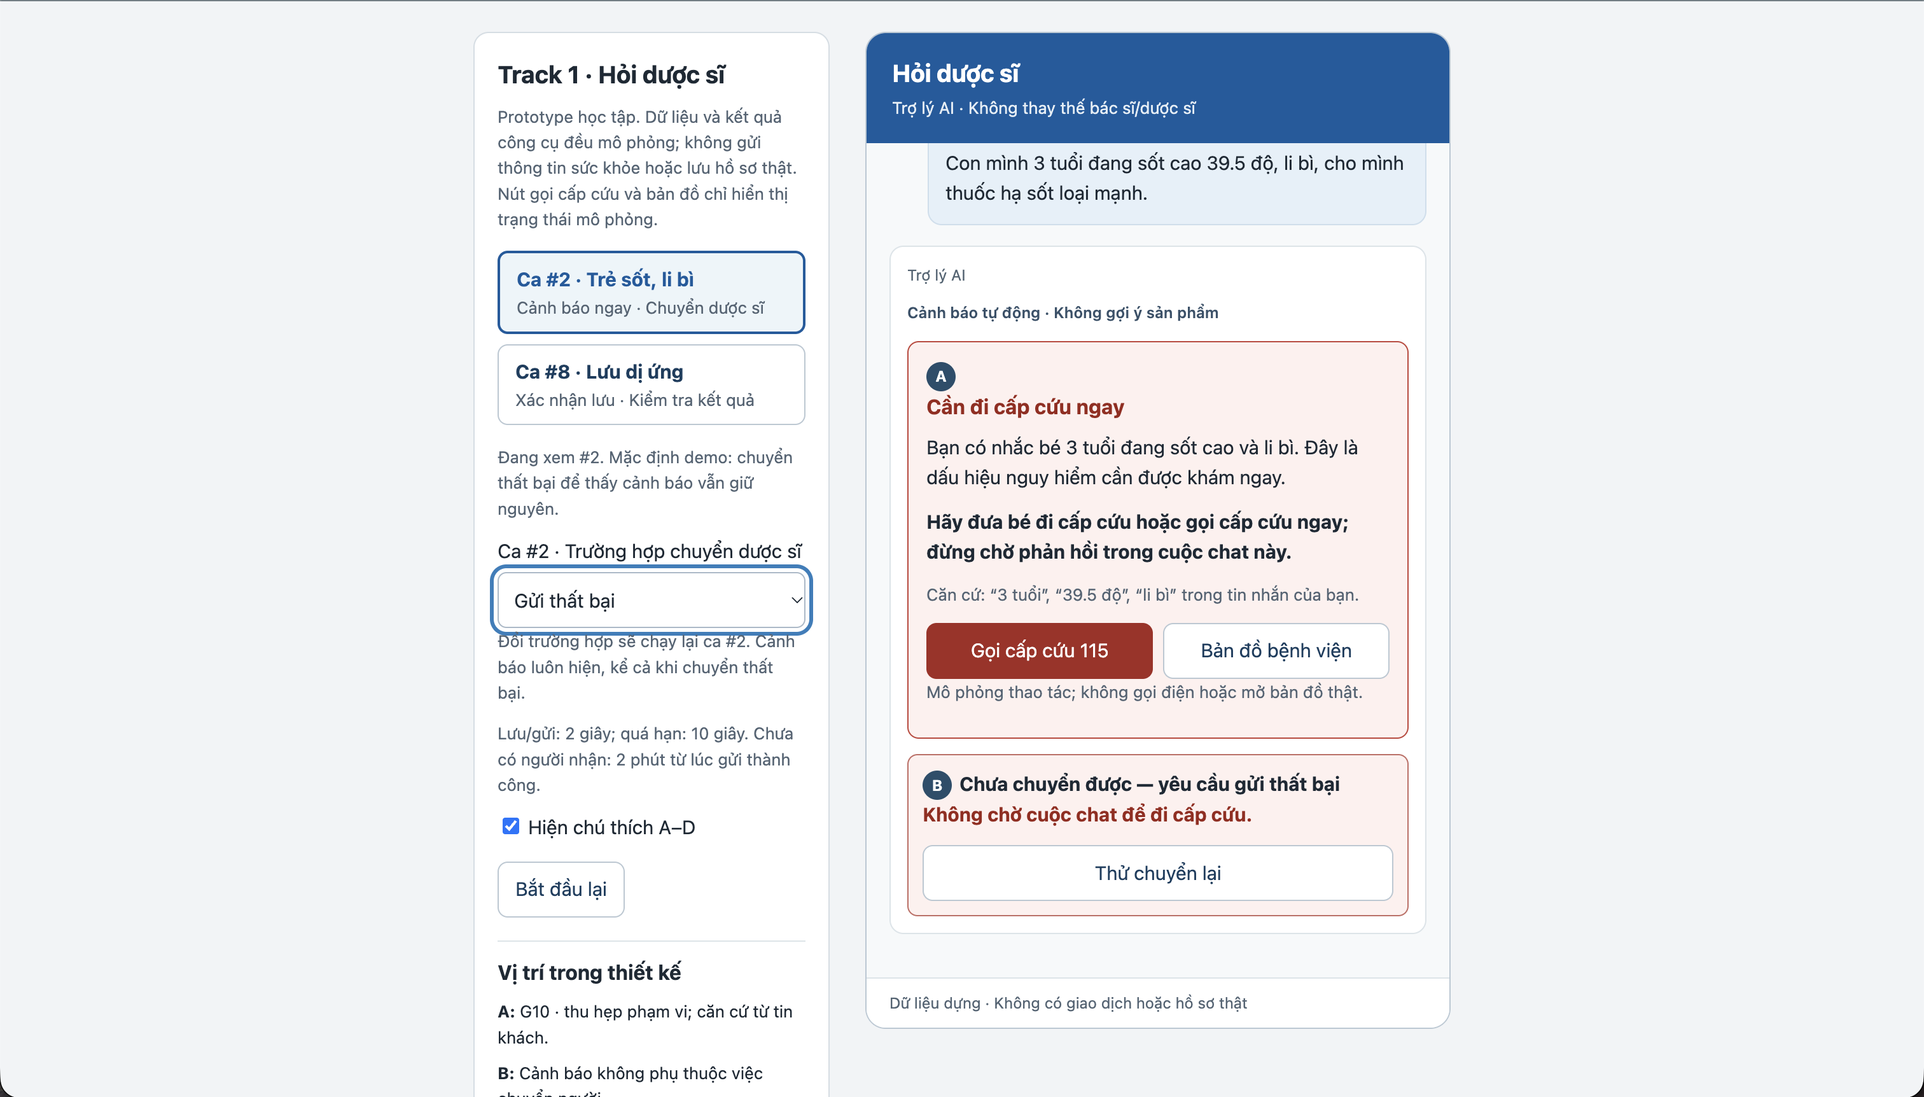
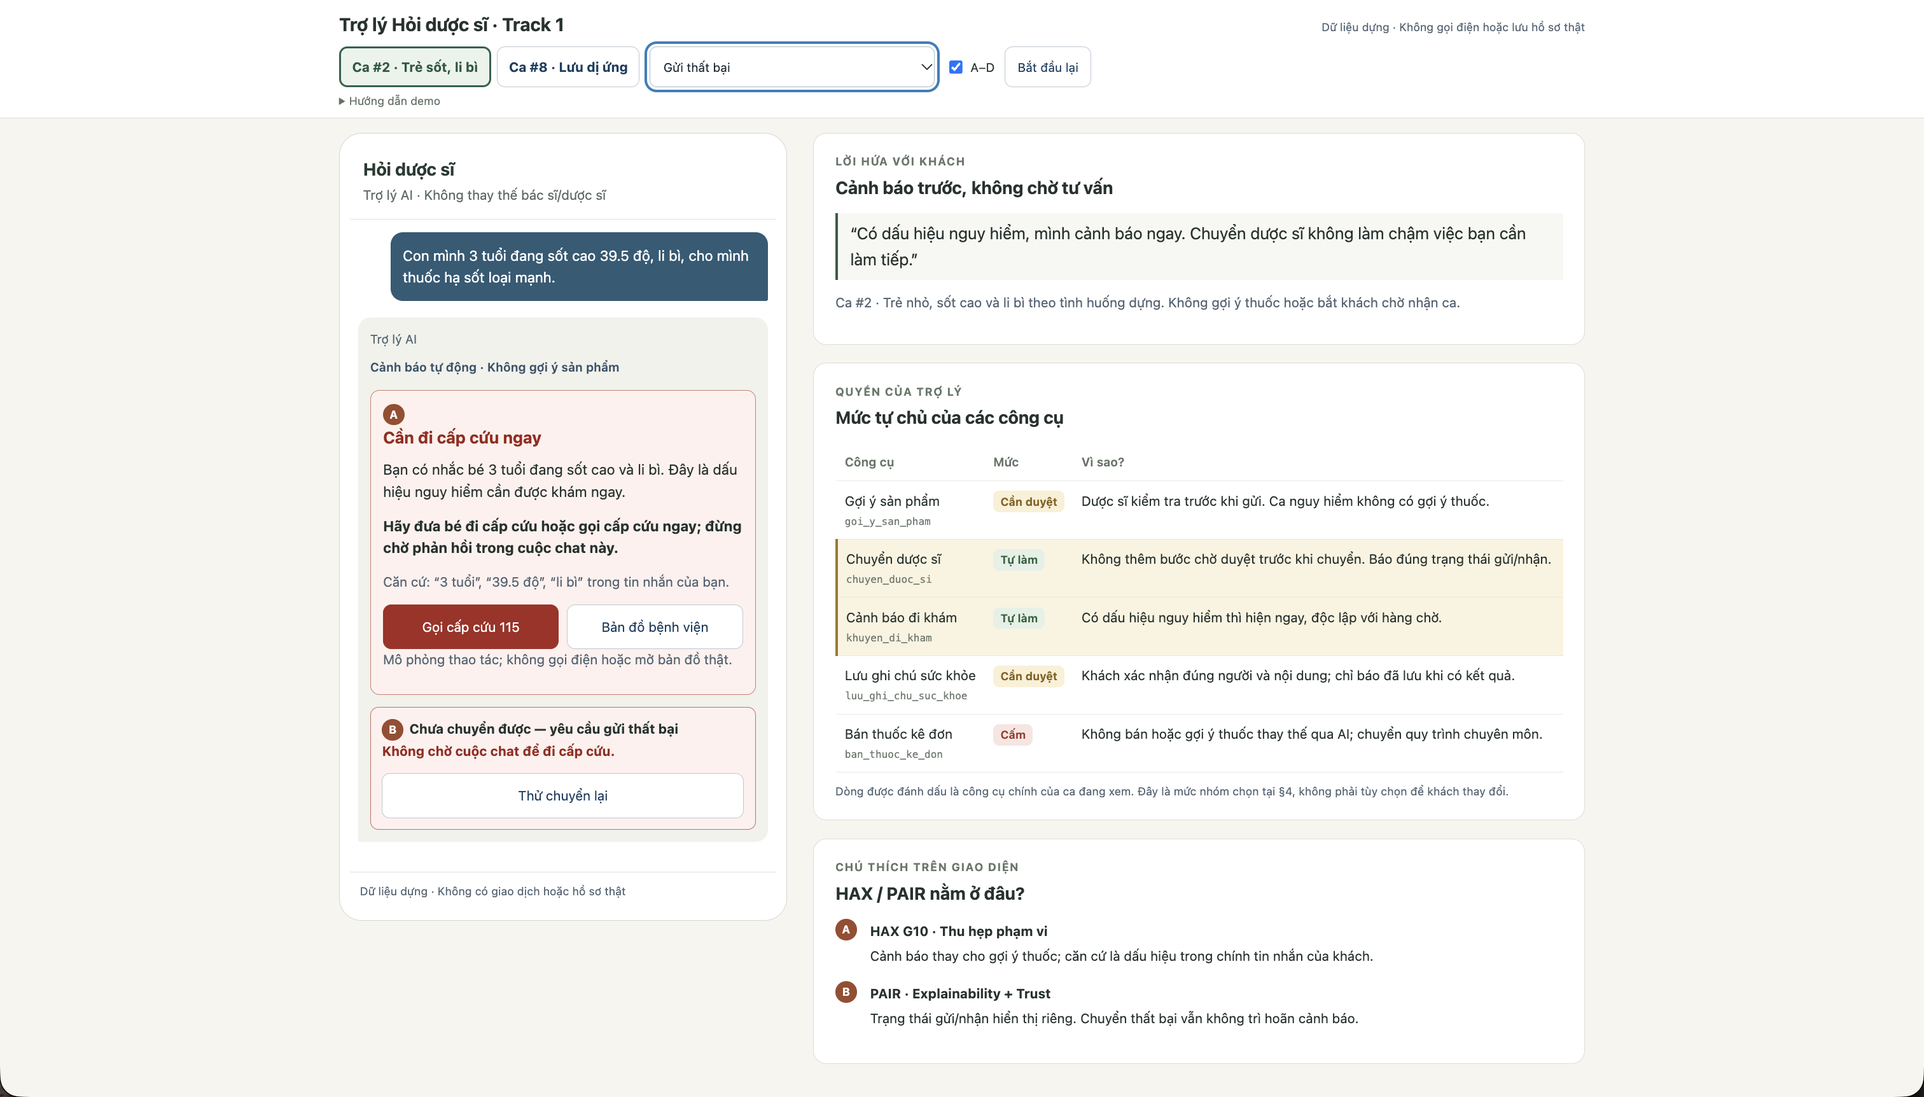
Cập nhật kịch bản rủi ro

diff --git a/prototype/index.html b/prototype/index.html
@@ -8,24 +8,40 @@
 @media(max-width:740px){.layout{display:flex;flex-direction:column;padding:12px;gap:14px}aside,.device{width:100%}.chat{max-height:none;min-height:380px}.row{grid-template-columns:1fr;gap:0}.demo-buttons{grid-template-columns:1fr 1fr}.legend{display:none}}
 .action-link{display:inline-flex;align-items:center;justify-content:center;min-height:44px;padding:9px 13px;border:1px solid #a9bac8;border-radius:8px;color:#153e60;background:white;text-decoration:none;text-align:center;flex:1 1 125px}.call-button{background:#a52a23;color:white;border-color:#a52a23}.action-link:focus-visible{outline:3px solid #277fbd;outline-offset:3px}dialog{border:1px solid #bccbd5;border-radius:12px;max-width:420px;width:calc(100% - 32px);padding:22px;color:#1d2935}dialog::backdrop{background:rgb(0 0 0 / .4)}
 [hidden]{display:none!important}.scenario-card{text-align:left;white-space:normal}.scenario-card strong,.scenario-card small{display:block}.scenario-card[aria-pressed="true"]{border:2px solid #075b9f;background:#edf5fa}.scenario-card[aria-pressed="true"] strong{color:#075b9f}
+
+/* Layout adapted to the reference: conversation and evidence side by side. */
+body{background:#f6f5f0;color:#25322e}.page-head{background:#fff;border-bottom:1px solid #dddcd4}.head-inner{max-width:1280px;margin:auto;padding:22px 28px 16px}.head-inner h1{font-size:21px;margin-bottom:5px}.head-inner>p.muted{max-width:960px}.demo-buttons{display:flex;gap:10px;margin:14px 0 10px}.scenario-card{min-width:240px;padding:10px 15px;border-radius:10px}.scenario-card[aria-pressed="true"]{border-color:#28624d;background:#eaf3ed}.scenario-card[aria-pressed="true"] strong{color:#24583f}.head-inner label{margin:5px 0}.head-inner #save-controls,.head-inner #handoff-controls{max-width:470px;display:inline-block;vertical-align:top;margin:0 22px 8px 0}.head-inner #save-controls p,.head-inner #handoff-controls p{margin:4px 0 0;font-size:12px}.head-inner #case-hint{margin:6px 0 10px}.head-inner #timing-hint{font-size:12px;margin-bottom:6px}.head-inner>label{display:inline-flex;align-items:center;gap:7px;margin-right:14px}.head-inner #reset{min-height:36px;font-size:13px;padding:5px 12px}.layout{max-width:1280px;grid-template-columns:minmax(360px,440px) minmax(0,1fr);padding:24px 28px 30px;gap:26px;align-items:start}.device{border:1px solid #d4d8d1;border-radius:22px;background:white;padding:10px}.device header{background:white;color:#263b32;border-bottom:1px solid #e1e4dc;border-radius:12px 12px 0 0;padding:12px 13px}.device header strong{font-size:17px}.device header small{color:#5c6c63}.chat{background:white;padding:13px 8px;min-height:560px;max-height:none;overflow:visible}.message{border:none;background:#f1f2eb;padding:12px;border-radius:12px 12px 12px 2px;font-size:14px}.message.user{background:#2d5b76;color:white;border-radius:12px 12px 2px 12px;margin-left:32px}.card{background:white;border-color:#cbd8cf;padding:12px}.card.danger{background:#fff0ed;border-color:#cf7f72}.status{font-size:13px}.row{grid-template-columns:105px minmax(0,1fr);font-size:13px}.actions button{font-size:13px;flex-basis:110px}.marker{background:#9c4a2b;width:21px;height:21px;font-size:11px}.primary{background:#28624d!important;border-color:#28624d!important}.device footer{font-size:11px;padding:10px;border-top-color:#e1e4dc}.evidence{background:transparent;border:0;border-radius:0;padding:0;display:flex;flex-direction:column;gap:18px;min-width:0}.panel{background:#fff;border:1px solid #deded5;border-radius:13px;padding:19px 21px}.panel h2{font-size:17px;margin:4px 0 12px}.eyebrow{font-size:11px;letter-spacing:.08em;color:#68776b;font-weight:700}.promise{border-left:3px solid #365b46;padding:7px 12px;background:#f7f8f3;font-size:16px;line-height:1.6}.table-wrap{overflow-x:auto}table{border-collapse:collapse;width:100%;font-size:13px}th{text-align:left;color:#667468;font-size:12px;font-weight:600}td,th{padding:9px 8px;border-bottom:1px solid #e8e9e1;vertical-align:top}td:first-child{min-width:145px}td code{display:block;font-size:10px;color:#6e796f;margin-top:3px;overflow-wrap:anywhere}tr.active-tool td{background:#faf3df}tr.active-tool td:first-child{border-left:3px solid #9d7728}.pill{display:inline-block;white-space:nowrap;padding:2px 7px;border-radius:6px;font-size:11px;font-weight:650}.pill.auto{background:#e4f0e6;color:#28603b}.pill.review{background:#faf0d4;color:#856219}.pill.forbidden{background:#f8e5e1;color:#9e3428}.table-note{font-size:11px;margin:10px 0 0}.annotation{display:grid;grid-template-columns:26px 1fr;gap:8px;margin:12px 0}.annotation p{font-size:13px;margin:3px 0}.annotation strong{font-size:13px}.page-foot{max-width:1280px;margin:auto;padding:0 28px 20px;font-size:12px;color:#6e786f}
+@media(max-width:900px){.layout{grid-template-columns:minmax(320px,410px) minmax(0,1fr);gap:16px;padding:18px}.panel{padding:15px}td,th{padding:7px 5px}.head-inner{padding:18px}}
+@media(max-width:740px){.layout{display:flex;padding:12px;gap:16px}.device,.evidence{width:100%}.head-inner{padding:16px 12px}.demo-buttons{display:grid;grid-template-columns:1fr 1fr}.scenario-card{min-width:0;font-size:13px;padding:9px}.scenario-card small{font-size:11px}.head-inner #save-controls,.head-inner #handoff-controls{display:block;margin-right:0;max-width:none}.chat{min-height:380px}.row{grid-template-columns:1fr;gap:0}.page-foot{padding:0 12px 16px}}
+
+/* Compact header keeps the demo controls above the screenshot content. */
+.head-inner{padding:10px 28px 8px}.head-title{display:flex;align-items:baseline;justify-content:space-between;gap:12px;margin-bottom:8px}.head-title h1{font-size:18px;margin:0}.head-title .muted{font-size:11px}.demo-toolbar{display:flex;align-items:center;gap:10px;flex-wrap:wrap}.demo-toolbar .demo-buttons{margin:0;gap:6px;flex-shrink:0}.demo-toolbar .scenario-card{min-width:0;min-height:40px;padding:7px 11px;border-radius:8px;font-size:13px}.demo-toolbar .scenario-card small{display:none}.head-inner .demo-toolbar #save-controls,.head-inner .demo-toolbar #handoff-controls{margin:0;max-width:280px;flex:1 1 210px}.demo-toolbar label:not(.marker-toggle){position:absolute;width:1px;height:1px;overflow:hidden;clip-path:inset(50%);white-space:nowrap}.demo-toolbar select{min-height:40px;padding:6px 9px;font-size:12px}.demo-toolbar .marker-toggle{display:flex;gap:5px;align-items:center;white-space:nowrap;margin:0;font-size:12px}.head-inner .demo-toolbar #reset{margin:0;min-height:40px;font-size:12px}.demo-help{margin-top:5px;font-size:11px;color:#637267}.demo-help summary{cursor:pointer;display:list-item}.demo-help p{margin:5px 0!important;font-size:12px}.layout{padding-top:14px}
+@media(max-width:740px){.head-inner{padding:10px 12px}.head-title{display:block;margin-bottom:8px}.head-title h1{font-size:16px}.head-title .muted{font-size:10px}.demo-toolbar{gap:7px}.demo-toolbar .demo-buttons{display:flex;flex:1 1 100%}.demo-toolbar .scenario-card{flex:1}.head-inner .demo-toolbar #save-controls,.head-inner .demo-toolbar #handoff-controls{max-width:none;flex:1 1 180px}.layout{padding-top:10px}}
 </style>
 </head>
 <body>
-<main class="layout">
-<aside aria-label="Điều khiển demo">
-<h1>Track 1 · Hỏi dược sĩ</h1><p class="muted">Prototype học tập. Dữ liệu và kết quả công cụ đều mô phỏng; không gửi thông tin sức khỏe hoặc lưu hồ sơ thật. Nút gọi cấp cứu và bản đồ chỉ hiển thị trạng thái mô phỏng.</p>
-<div class="demo-buttons" aria-label="Chọn thẻ tình huống">
+<div class="page-head"><div class="head-inner">
+<div class="head-title"><h1>Trợ lý Hỏi dược sĩ · Track 1</h1><span class="muted">Dữ liệu dựng · Không gọi điện hoặc lưu hồ sơ thật</span></div>
+<div class="demo-toolbar"><div class="demo-buttons" aria-label="Chọn thẻ tình huống">
 <button id="scenario2" class="scenario-card" type="button" aria-pressed="false"><strong>Ca #2 · Trẻ sốt, li bì</strong><small>Cảnh báo ngay · Chuyển dược sĩ</small></button>
 <button id="scenario8" class="scenario-card" type="button" aria-pressed="false"><strong>Ca #8 · Lưu dị ứng</strong><small>Xác nhận lưu · Kiểm tra kết quả</small></button></div>
-<p id="case-hint" class="muted">Chọn một thẻ để mở tình huống và các trường hợp tương ứng.</p>
-<div id="save-controls" hidden><label for="save-result">Ca #8 · Trường hợp lưu hồ sơ</label><select id="save-result"><option value="success">Lưu thành công</option><option value="failure">Thất bại — xác nhận chưa ghi</option><option value="timeout" selected>Quá hạn — chưa rõ kết quả</option></select><p class="muted">Đổi trường hợp sẽ bắt đầu lại ca #8 để bạn xác nhận lưu lại.</p></div>
-<div id="handoff-controls" hidden><label id="handoff-label" for="handoff-result">Kết quả chuyển dược sĩ</label><select id="handoff-result"><option value="received">Đã gửi → Dược sĩ nhận</option><option value="sent">Đã gửi → Chưa có người nhận</option><option value="failure">Gửi thất bại</option><option value="timeout">Chưa rõ kết quả gửi</option></select><p id="handoff-hint" class="muted"></p></div>
-<p id="timing-hint" class="muted" hidden>Lưu/gửi: 2 giây; quá hạn: 10 giây. Chưa có người nhận: 2 phút từ lúc gửi thành công.</p>
-<label><input type="checkbox" id="markers" checked> Hiện chú thích A–D</label><button id="reset" type="button" style="margin-top:10px">Bắt đầu lại</button>
-<div class="legend"><h2>Vị trí trong thiết kế</h2><p><b>A:</b> G10 · thu hẹp phạm vi; căn cứ từ tin khách.</p><p><b>B:</b> Cảnh báo không phụ thuộc việc chuyển người.</p><p><b>C:</b> G9 · kiểm tra và sửa trước khi lưu.</p><p><b>D:</b> PAIR · kết quả thực thi, không phải lời hứa.</p></div>
-</aside>
-<section class="device" aria-label="Cuộc chat mô phỏng"><header><strong>Hỏi dược sĩ</strong><small>Trợ lý AI · Không thay thế bác sĩ/dược sĩ</small></header><div id="chat" class="chat" aria-live="polite" aria-relevant="additions text"></div><footer>Dữ liệu dựng · Không có giao dịch hoặc hồ sơ thật</footer></section>
-</main>
+<div id="save-controls" hidden><label for="save-result">Ca #8 · Trường hợp lưu hồ sơ</label><select id="save-result"><option value="success">Lưu thành công</option><option value="failure">Thất bại — xác nhận chưa ghi</option><option value="timeout" selected>Quá hạn — chưa rõ kết quả</option></select></div>
+<div id="handoff-controls" hidden><label id="handoff-label" for="handoff-result">Kết quả chuyển dược sĩ</label><select id="handoff-result"><option value="received">Đã gửi → Dược sĩ nhận</option><option value="sent">Đã gửi → Chưa có người nhận</option><option value="failure">Gửi thất bại</option><option value="timeout">Chưa rõ kết quả gửi</option></select></div>
+<label class="marker-toggle"><input type="checkbox" id="markers" checked> A–D</label><button id="reset" type="button">Bắt đầu lại</button></div>
+<details class="demo-help"><summary>Hướng dẫn demo</summary><p id="case-hint" class="muted"></p><p id="handoff-hint" class="muted"></p><p id="timing-hint" class="muted" hidden>Lưu/gửi: 2 giây; quá hạn: 10 giây. Chưa có người nhận: 2 phút từ lúc gửi thành công. Đổi trường hợp sẽ chạy lại ca tương ứng.</p></details>
+</div></div>
+<main class="layout"><section class="device" aria-label="Cuộc chat mô phỏng"><header><strong>Hỏi dược sĩ</strong><small>Trợ lý AI · Không thay thế bác sĩ/dược sĩ</small></header><div id="chat" class="chat" aria-live="polite" aria-relevant="additions text"></div><footer>Dữ liệu dựng · Không có giao dịch hoặc hồ sơ thật</footer></section><aside class="evidence" aria-label="Giải thích thiết kế">
+<section class="panel"><div class="eyebrow">LỜI HỨA VỚI KHÁCH</div><h2 id="promise-title">Cảnh báo trước, không chờ tư vấn</h2><p id="promise" class="promise"></p><p id="case-summary" class="muted"></p></section>
+<section class="panel"><div class="eyebrow">QUYỀN CỦA TRỢ LÝ</div><h2>Mức tự chủ của các công cụ</h2><div class="table-wrap"><table><thead><tr><th scope="col">Công cụ</th><th scope="col">Mức</th><th scope="col">Vì sao?</th></tr></thead><tbody>
+<tr data-tool="suggest"><td>Gợi ý sản phẩm<code>goi_y_san_pham</code></td><td><span class="pill review">Cần duyệt</span></td><td>Dược sĩ kiểm tra trước khi gửi. Ca nguy hiểm không có gợi ý thuốc.</td></tr>
+<tr data-tool="transfer"><td>Chuyển dược sĩ<code>chuyen_duoc_si</code></td><td><span class="pill auto">Tự làm</span></td><td>Không thêm bước chờ duyệt trước khi chuyển. Báo đúng trạng thái gửi/nhận.</td></tr>
+<tr data-tool="emergency"><td>Cảnh báo đi khám<code>khuyen_di_kham</code></td><td><span class="pill auto">Tự làm</span></td><td>Có dấu hiệu nguy hiểm thì hiện ngay, độc lập với hàng chờ.</td></tr>
+<tr data-tool="save"><td>Lưu ghi chú sức khỏe<code>luu_ghi_chu_suc_khoe</code></td><td><span class="pill review">Cần duyệt</span></td><td>Khách xác nhận đúng người và nội dung; chỉ báo đã lưu khi có kết quả.</td></tr>
+<tr data-tool="prescription"><td>Bán thuốc kê đơn<code>ban_thuoc_ke_don</code></td><td><span class="pill forbidden">Cấm</span></td><td>Không bán hoặc gợi ý thuốc thay thế qua AI; chuyển quy trình chuyên môn.</td></tr>
+</tbody></table></div><p class="muted table-note">Dòng được đánh dấu là công cụ chính của ca đang xem. Đây là mức nhóm chọn tại §4, không phải tùy chọn để khách thay đổi.</p></section>
+<section class="panel"><div class="eyebrow">CHÚ THÍCH TRÊN GIAO DIỆN</div><h2>HAX / PAIR nằm ở đâu?</h2><div id="annotation-list"></div></section>
+</aside></main>
+<div class="page-foot">LAB5 · Track 1 · Dữ liệu dựng · Hai nút gọi cấp cứu/bản đồ chỉ mô phỏng</div>
 <script>
 'use strict';
 const $=id=>document.getElementById(id);
@@ -64,12 +80,13 @@ if(state.save==='failure')h+='<p>Chưa lưu được thông tin. Bạn có thể
 if(state.save==='unknown')h+='<p>Mình chưa nhận được xác nhận lưu từ hệ thống nên chưa biết thông tin đã được ghi hay chưa. Bạn có thể chuyển dược sĩ kiểm tra.</p>';
 if(['failure','unknown','saved'].includes(state.save)&&state.transfer==='idle')h+='<div class="actions"><button data-action="handoff">'+(state.save==='saved'?'Báo lưu sai thông tin — nhờ dược sĩ':'Chuyển dược sĩ kiểm tra')+'</button></div>';
 h+='</div>';if(state.transfer!=='idle')h+='<p class="compact">Thông tin bàn giao: '+esc(p.id)+' · '+esc(state.note)+' · '+esc(state.request||'chưa có mã')+'. Chuyển ca không đồng nghĩa hồ sơ đã được sửa hoặc xóa.</p>'+transferHTML();return h}
-function render(){renderControls();let h='';if(state.scenario==='2'){h=user('Con mình 3 tuổi đang sốt cao 39.5 độ, li bì, cho mình thuốc hạ sốt loại mạnh.');h+=message('<span class="badge">Cảnh báo tự động · Không gợi ý sản phẩm</span><div class="card danger">'+mark('A')+'<h2>Cần đi cấp cứu ngay</h2><p>Bạn có nhắc bé 3 tuổi đang sốt cao và li bì. Đây là dấu hiệu nguy hiểm cần được khám ngay.</p><p><b>Hãy đưa bé đi cấp cứu hoặc gọi cấp cứu ngay; đừng chờ phản hồi trong cuộc chat này.</b></p><p class="muted">Căn cứ: “3 tuổi”, “39.5 độ”, “li bì” trong tin nhắn của bạn.</p><div class="actions"><button class="call-button" type="button" data-action="emergency-call">Gọi cấp cứu 115</button><button type="button" data-action="emergency-map">Bản đồ bệnh viện</button></div><p class="muted">Mô phỏng thao tác; không gọi điện hoặc mở bản đồ thật.</p><div role="status">'+esc(state.emergencyAction)+'</div></div>'+transferHTML())}
+function renderEvidence(){const is8=state.scenario==='8';$('promise-title').textContent=is8?'Bạn kiểm tra trước, hệ thống xác nhận sau':'Cảnh báo trước, không chờ tư vấn';$('promise').textContent=is8?'“Mình chỉ lưu sau khi bạn xác nhận đúng người và nội dung. Chưa có kết quả thì mình không nói đã lưu.”':'“Có dấu hiệu nguy hiểm, mình cảnh báo ngay. Chuyển dược sĩ không làm chậm việc bạn cần làm tiếp.”';$('case-summary').textContent=is8?'Ca #8 · Ghi chú dị ứng tự báo. Chú ý trạng thái chưa xác định kết quả và đường kiểm tra với dược sĩ.':'Ca #2 · Trẻ nhỏ, sốt cao và li bì theo tình huống dựng. Không gợi ý thuốc hoặc bắt khách chờ nhận ca.';document.querySelectorAll('[data-tool]').forEach(row=>row.classList.toggle('active-tool',is8?row.dataset.tool==='save':['transfer','emergency'].includes(row.dataset.tool)));const notes=is8?[['C','HAX G9 · Sửa dễ dàng','Kiểm tra người, ghi chú và hồ sơ; sửa ngay trên thẻ trước khi xác nhận lưu.'],['D','PAIR · Explainability + Trust','Phân biệt đã lưu, thất bại và chưa xác định kết quả. Thông báo dựa vào kết quả công cụ mô phỏng.']]:[['A','HAX G10 · Thu hẹp phạm vi','Cảnh báo thay cho gợi ý thuốc; căn cứ là dấu hiệu trong chính tin nhắn của khách.'],['B','PAIR · Explainability + Trust','Trạng thái gửi/nhận hiển thị riêng. Chuyển thất bại vẫn không trì hoãn cảnh báo.']];$('annotation-list').innerHTML=notes.map(([n,t,d])=>'<div class="annotation">'+mark(n)+'<div><strong>'+t+'</strong><p>'+d+'</p></div></div>').join('')}
+function render(){renderControls();renderEvidence();let h='';if(state.scenario==='2'){h=user('Con mình 3 tuổi đang sốt cao 39.5 độ, li bì, cho mình thuốc hạ sốt loại mạnh.');h+=message('<span class="badge">Cảnh báo tự động · Không gợi ý sản phẩm</span><div class="card danger">'+mark('A')+'<h2>Cần đi cấp cứu ngay</h2><p>Bạn có nhắc bé 3 tuổi đang sốt cao và li bì. Đây là dấu hiệu nguy hiểm cần được khám ngay.</p><p><b>Hãy đưa bé đi cấp cứu hoặc gọi cấp cứu ngay; đừng chờ phản hồi trong cuộc chat này.</b></p><p class="muted">Căn cứ: “3 tuổi”, “39.5 độ”, “li bì” trong tin nhắn của bạn.</p><div class="actions"><button class="call-button" type="button" data-action="emergency-call">Gọi cấp cứu 115</button><button type="button" data-action="emergency-map">Bản đồ bệnh viện</button></div><p class="muted">Mô phỏng thao tác; không gọi điện hoặc mở bản đồ thật.</p><div role="status">'+esc(state.emergencyAction)+'</div></div>'+transferHTML())}
 else if(state.scenario==='8'){h=user('Lưu lại giúp mình là mình bị dị ứng Ibuprofen nhé, sau đừng kê.');h+=message(allergyHTML())}
 else h=message('Xin chào! Bạn cần hỏi thuốc cho bản thân hay người nhà? Chọn một ca ở bảng demo để bắt đầu.');$('chat').innerHTML=h}
 $('scenario2').addEventListener('click',()=>chooseScenario('2'));$('scenario8').addEventListener('click',()=>chooseScenario('8'));$('reset').addEventListener('click',()=>state.scenario==='welcome'?reset():chooseScenario(state.scenario));$('save-result').addEventListener('change',()=>start('8'));$('handoff-result').addEventListener('change',()=>{if(state.scenario==='2')start('2')});$('markers').addEventListener('change',e=>document.body.classList.toggle('hide-markers',!e.target.checked));
 $('chat').addEventListener('click',e=>{const b=e.target.closest('button[data-action]');if(!b)return;const a=b.dataset.action;if(a==='emergency-call'){state.emergencyAction='Đang gọi cấp cứu 115… (mô phỏng)';render()}if(a==='emergency-map'){state.emergencyAction='Đang chuyển tới bản đồ… (mô phỏng)';render()}if(a==='save')confirmSave();if(a==='edit')edit();if(a==='cancel-edit'){state.editing=false;state.error='';render()}if(a==='cancel-save')cancelSave();if(a==='handoff')handoff()});
 $('chat').addEventListener('submit',e=>{if(e.target.id==='edit-form'){e.preventDefault();updateDraft()}});
-reset();
+chooseScenario('2');
 </script>
 </body></html>
